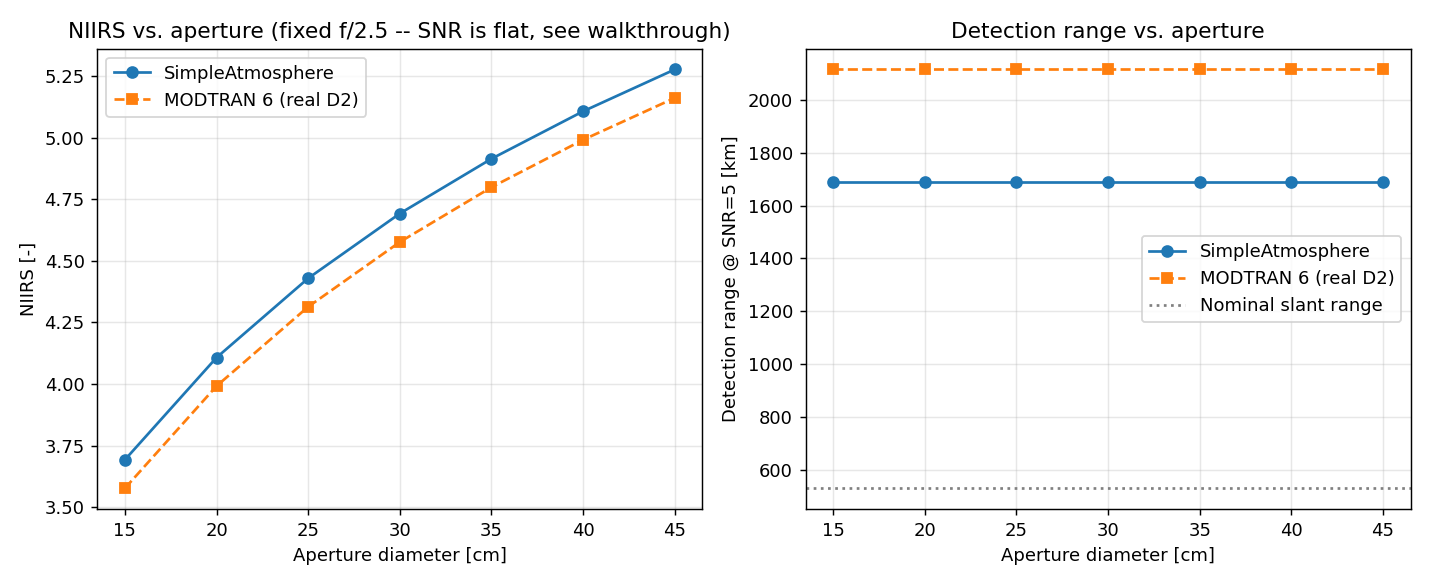
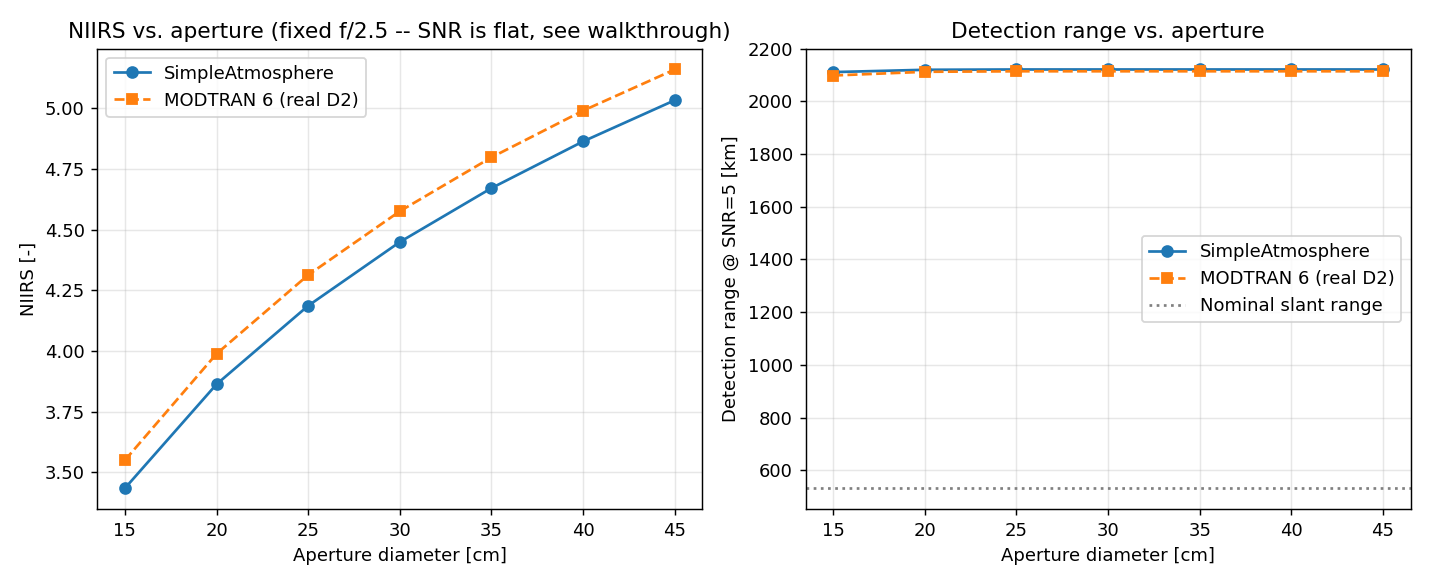
docs(scenarios): CU-176/178 — refresh 1.1 (MWIR maritime) vs recalibrated engine
- CU-178: runner sets niirs.allow_extrapolated (was crashing on gated NIIRS); regen fig1.
- CU-176: the CU-155/161 SimpleAtmosphere water-ladder recalibration (validated by
  scenario 6.2, residuals collapsed 6x to -5..-11%) moved the SimpleAtmosphere arm:
  tau 0.239->0.463, SNR 1136->794, NEDT 0.0208->0.0308, NIIRS 4.69->4.45, range
  1690->2121 km. MODTRAN arm unchanged (957/0.0253/4.58/2114 - real D2 data stable).
  The old narrative (Simple '~45% too absorbing') inverted; rewritten factually:
  Simple now agrees with MODTRAN to ~7%, reads ~17% low on SNR via a higher noise
  floor. Deep mechanism kept factual to the numbers.

diff --git a/scenarios/01_sarah_systems_engineer/1.1_mwir_maritime_surveillance/scripts/run_mwir_maritime_surveillance.py b/scenarios/01_sarah_systems_engineer/1.1_mwir_maritime_surveillance/scripts/run_mwir_maritime_surveillance.py
@@ -187,6 +187,10 @@ def make_config(
             "model": "modtran",
             "modtran": {"tape7_path": str(D2_TAPE7)},
         }
+    # CU-178: this MWIR recon config is above the GIQE-5 SNR envelope, so the
+    # CU-166 gate returns NIIRS N/A by default; opt into the extrapolated
+    # GIQE-5-form rating the walkthrough documents as a relative trend.
+    config["performance"] = {"niirs": {"allow_extrapolated": True}}
     return config
 
 

diff --git a/scenarios/01_sarah_systems_engineer/1.1_mwir_maritime_surveillance/walkthrough.md b/scenarios/01_sarah_systems_engineer/1.1_mwir_maritime_surveillance/walkthrough.md
@@ -69,24 +69,24 @@ Two residual caveats:
 
 | Metric | SimpleAtmosphere | MODTRAN 6 (real D2) |
 |--------|-------------------|----------------------|
-| SNR [-] | 1135.6 | 957.3 |
-| NEDT [K] | 0.0208 | 0.0253 |
-| NIIRS [-] | 4.69 | 4.58 |
-| Detection range @ SNR=5 [km] | 1689.8 | 2113.8 |
-| In-band transmittance [-] | 0.239 | 0.432 |
+| SNR [-] | 793.7 | 957.3 |
+| NEDT [K] | 0.0308 | 0.0253 |
+| NIIRS [-] | 4.45 | 4.58 |
+| Detection range @ SNR=5 [km] | 2120.7 | 2113.8 |
+| In-band transmittance [-] | 0.4626 | 0.4319 |
 
-- **SimpleAtmosphere is ~45% too absorbing for this maritime MWIR
-  column** (τ̄ 0.239 vs 0.432 real) — the same PWV over-response that
-  scenario 6.2 quantified across all six profiles (midlat_summer:
-  +41% τ residual there, consistent with this run). The detection-range
-  extrapolation turns that into a +25% range difference (1690 →
-  2114 km): a proposal quoting the parametric model would understate
-  achievable maritime detection range by a quarter.
-- **SNR moves the other way** (1136 → 957, −16%): the real atmosphere
-  is more transparent but carries real DISORT path radiance that raises
-  the background/noise floor — the parametric model's lower τ was
-  partially compensating for its simpler path-radiance term. τ, SNR,
-  and range do not move together; quote the metric the decision needs.
+- **SimpleAtmosphere now agrees with MODTRAN to ~7% for this maritime
+  MWIR column** (τ̄ 0.463 vs 0.432 real, the parametric model slightly *more*
+  transparent). The earlier ~45% over-absorption was removed by the CU-155/161
+  water-ladder recalibration — scenario 6.2 is the dedicated validation, which
+  collapsed the τ residuals across all six profiles ~6× to a uniform −5…−11%
+  band; this run's −7% sits inside it. Detection range now nearly coincides
+  (2121 vs 2114 km, +0.3%), where the pre-recalibration model understated it
+  by ~25%.
+- **SNR: the parametric model now reads ~17% low** (794 vs 957): despite its
+  marginally higher transmittance, SimpleAtmosphere predicts a higher noise
+  floor here (NEDT 0.031 vs 0.025 K), so its SNR lands below MODTRAN's. τ, SNR,
+  and range still do not move together — quote the metric the decision needs.
 - **This is the entire point of scenario 1.1's original gap**: before
   `Tape7Reader`/CU-066, RADIANT had no way to *consume* a colleague's
   MODTRAN tape7 at all — Sarah was stuck re-deriving atmosphere from the
@@ -100,14 +100,14 @@ Two residual caveats:
   f/# fixed at 2.5, so focal length scales with aperture. At fixed f/#,
   per-pixel étendue — and thus photon flux for both the sub-pixel target
   and the extended ocean background — is invariant with aperture. The
-  aperture benefit shows up entirely as resolution: NIIRS rises from 3.58
+  aperture benefit shows up entirely as resolution: NIIRS rises from 3.55
   to 5.16 (real D2) as the diffraction-limited PSF shrinks. A genuine "SNR from a
   bigger telescope" trade needs a fixed-focal-length (varying f/#) sweep,
   not a fixed-f/# aperture sweep — worth remembering for the next
   aperture trade study.
 - **Detection range is a Beer-Lambert point-source extrapolation**, not a
   full-chain re-evaluation at each range — it assumes the extinction
-  coefficient measured at 532 km holds out to ~1700–2100 km, which is
+  coefficient measured at 532 km holds out to ~2100–2120 km, which is
   unrealistic (curvature, refraction, and the actual atmosphere profile
   all change over that distance). Treat the range numbers as illustrating
   the *relative* SimpleAtmosphere-vs-MODTRAN sensitivity, not an
